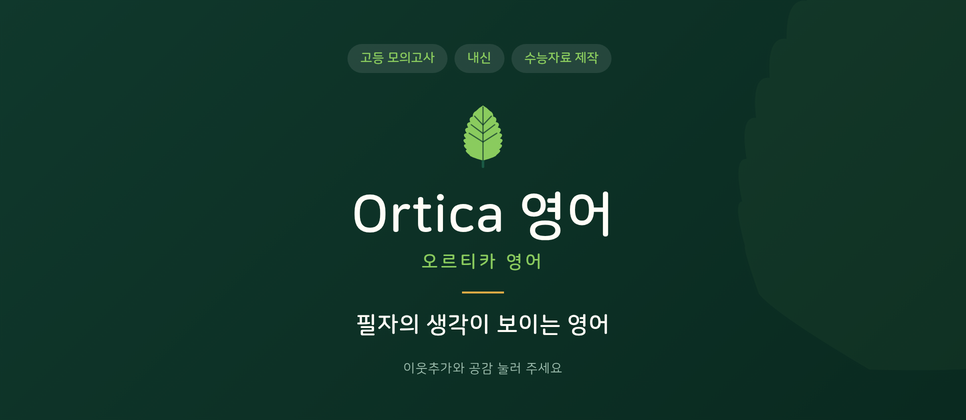
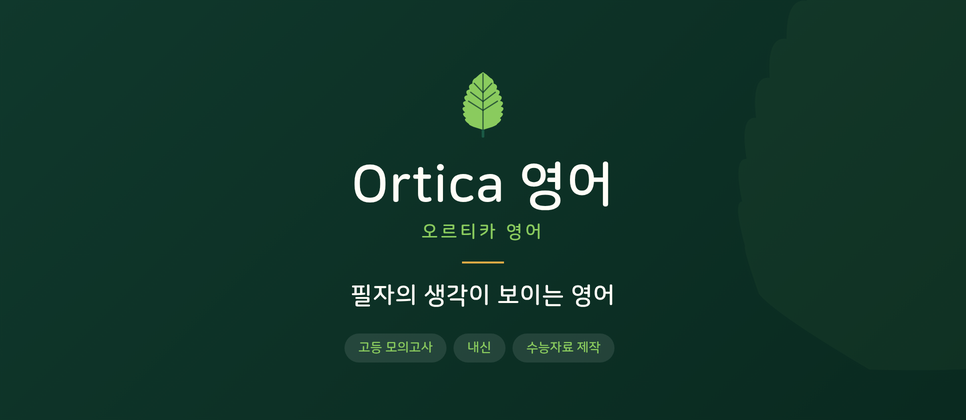
배너형 타이틀에서 CTA 줄을 빼고 그 자리에 소개 칩
'이웃추가와 공감 눌러 주세요' 를 지우고 칩을 위에서 아래로 내렸다. 심볼부터
콘셉트까지 한 덩어리로 읽히고, 칩이 그 아래를 받친다. 쓰이지 않게 된 CTA
상수는 제거했다.

Claude-Session: https://claude.ai/code/session_015BpsJgtaBR6xs1aCKnE4xw

Changed region(s): [[0.3416, 0.0929, 0.6522, 0.65], [0.3416, 0.681, 0.6522, 0.8976]]

diff --git a/brand/build.py b/brand/build.py
@@ -33,7 +33,6 @@ SAMPLES = OUT / "samples"
 BRAND_EN = "Ortica"
 BRAND_KO = "오르티카 영어"
 PROFILE_EN = "Ortica 영어"   # 프로필에는 영문 이름 뒤에 '영어'를 붙인다
-CTA = "이웃추가와 공감 눌러 주세요"   # 세로형 타이틀 아래 한 줄. 비우면 안 나온다.
 CONCEPT = "필자의 생각이 보이는 영어"
 # 소개 문구는 글줄로 반복하지 않고 칩으로만 보여 준다.
 KEYWORDS = ["고등 모의고사", "내신", "수능자료 제작"]
@@ -242,24 +241,18 @@ def build_title_tall(width: int, height: int, dark: bool = True) -> str:
     보여서 브랜드가 먼저 읽힌다.
     """
     h, t = height, theme(dark)
-    chips = "".join(chip(k, t, h * 0.030) for k in KEYWORDS)
-    cta = ""
-    if CTA:
-        cta = (f'<div class="sans" style="margin-top:{h * 0.055:.0f}px;'
-               f'font-size:{h * 0.030:.0f}px;color:{t["muted"]};letter-spacing:.04em">'
-               f'{CTA}</div>')
+    chips = "".join(chip(k, t, h * 0.032) for k in KEYWORDS)
     inner = f"""<div style="height:100%;display:flex;flex-direction:column;
       align-items:center;justify-content:center;text-align:center">
-      <div style="margin-bottom:{h * 0.045:.0f}px">{chips}</div>
-      <div style="width:{h * 0.20:.0f}px;line-height:0">{mark(dark, int(h * 0.20))}</div>
+      <div style="width:{h * 0.21:.0f}px;line-height:0">{mark(dark, int(h * 0.21))}</div>
       <div class="wm" style="margin-top:{h * 0.035:.0f}px;font-size:{h * 0.125:.0f}px;
            color:{t['fg']}">{PROFILE_EN}</div>
       <div class="ko" style="margin-top:{h * 0.022:.0f}px;font-size:{h * 0.042:.0f}px;
            color:{t['accent']};letter-spacing:.16em">{BRAND_KO}</div>
       <div style="width:{h * 0.10:.0f}px;height:2px;background:{P['gold']};
            margin:{h * 0.045:.0f}px auto"></div>
-      <div class="ko" style="font-size:{h * 0.055:.0f}px;color:{t['fg']}">{CONCEPT}</div>
-      {cta}
+      <div class="ko" style="font-size:{h * 0.058:.0f}px;color:{t['fg']}">{CONCEPT}</div>
+      <div style="margin-top:{h * 0.058:.0f}px">{chips}</div>
     </div>"""
     return page(stage(inner, dark=dark, w=width, h=height), CSS, width, height)
 

diff --git a/brand/README.md b/brand/README.md
@@ -69,8 +69,8 @@ brand/
 | `title-966x200-dark.png` | 966×200 | 슬림 |
 
 배너형(550)은 벤치마킹하는 블로그와 비슷한 비율입니다. 타이틀을 크게 쓰면
-브랜드가 먼저 읽히고, 낮게 쓰면 글 목록이 위로 올라옵니다.
-`build.py` 의 `CTA` 를 비우면 '이웃추가와 공감 눌러 주세요' 줄이 빠집니다.
+브랜드가 먼저 읽히고, 낮게 쓰면 글 목록이 위로 올라옵니다. 소개 칩은 콘셉트
+아래에 놓입니다.
 
 관리 → 꾸미기 설정 → 타이틀 → 직접등록. **'블로그 제목 표시'는 꺼 주세요.**
 이미지 안에 제목이 이미 들어 있어서 켜면 글자가 겹칩니다.
